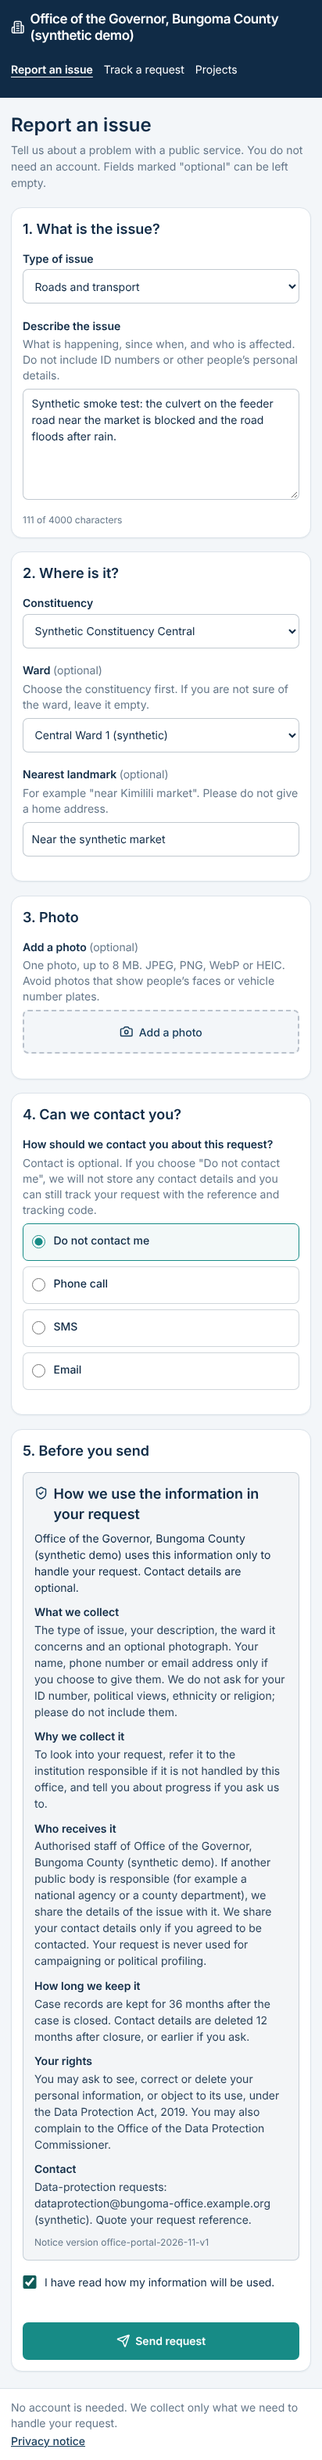
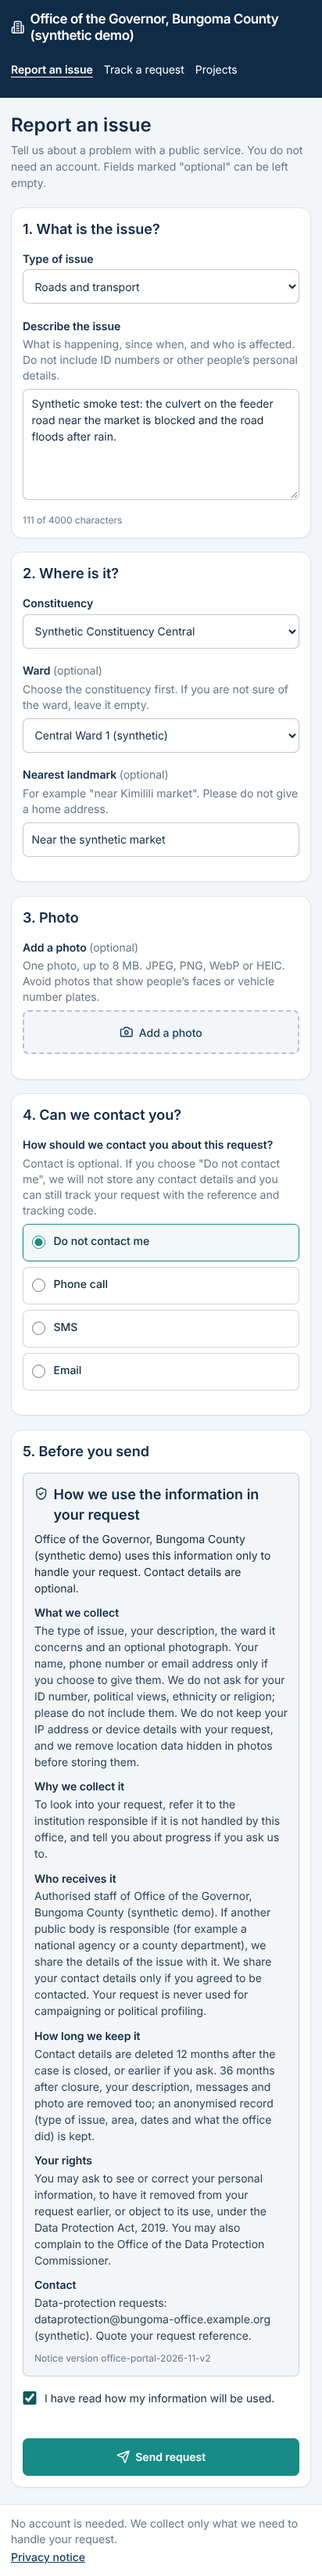
docs(office): status, contract and development notes for the Office review fixes
Mark S23-S27 with the review fixes, add Office acceptance notes, update the
pipeline results, known gaps and the recommended next stage, and document the
contract changes (redaction, confidential cases, closure rules, publication
withdrawal, public evidence files) and the retention job. Refresh the Office
smoke screenshots.

Claude-Session: https://claude.ai/code/session_012U6b6gCKEcZ6Zys4rWqLyD

diff --git a/docs/STATUS.md b/docs/STATUS.md
@@ -10,12 +10,12 @@ Branch `feat/foundation-tally-mvp` (merged to `main`), then `feat/office-governo
 | Typecheck | `pnpm typecheck` | 6/6 packages OK |
 | Lint | `pnpm lint` | 6/6 packages OK |
 | Build | `pnpm build` | shared, db, api, web OK (web includes `/accept-invitation`) |
-| Unit and integration tests | `set -a; . ./.env; set +a; pnpm test` | shared 136, web 113 (tally, public portal, office screens), api 280 tests (27 suites, with RLS and HTTP integration against `ngao360_test`) |
+| Unit and integration tests | `set -a; . ./.env; set +a; pnpm test` | shared 142, web 116 (tally, public portal, office screens), api 309 tests (29 suites, with RLS and HTTP integration against `ngao360_test`) |
 | Governor rehearsal (e2e) | `pnpm test:rehearsal` | 11/11 |
-| Office governor rehearsal (e2e) | `pnpm test:rehearsal:office` | 11/11 |
+| Office governor rehearsal (e2e) | `pnpm test:rehearsal:office` | 12/12 (adds the data-protection redaction step) |
 | Browser smoke | `pnpm smoke:office` (Playwright, running stack) | passes, no browser errors; `docs/screenshots/office-*.png` |
 
-Local services used: PostgreSQL 16 on port 5433 under `/tmp/ngao-pg`, Redis on 6379 (see `docs/DEVELOPMENT.md`). Migrations run up to `20261120000500_office_environment` (the Office build needed no further migration).
+Local services used: PostgreSQL 16 on port 5433 under `/tmp/ngao-pg`, Redis on 6379 (see `docs/DEVELOPMENT.md`). Migrations run up to `20261121000000_office_review_fixes` (case redaction function and guards, `completion_evidence_ids`, approval-authority check). The API now depends on `sharp` 0.34.5 (prebuilt libvips from the npm registry) for server-side image cleaning.
 
 ## Screens (blueprint section 11)
 
@@ -43,11 +43,11 @@ Local services used: PostgreSQL 16 on port 5433 under `/tmp/ngao-pg`, Redis on 6
 | S20 | Verification workspace | Done | Blind independent re-entry or confirm mode, checklist, field comments, pass, return or dispute, supervisor actions (approve, reject, third check). Tally supervisors are routed here. |
 | S21 | Parallel tally | Done | Contest and geography selectors, candidate totals in ballot order, verified-station denominator, mutually exclusive coverage segments, drill-down, station list, immutable snapshots, internal release, CSV, XLSX and PDF exports with the disclaimer. No trend chart over time. |
 | S22 | Discrepancy case | Done | Source A/B comparison, case types, assignment, comments, reasoned resolution (canonical record, exclusion), closure by a different person. |
-| S23 | Correspondence inbox | Done | Register incoming and outgoing items (immutable scans, audited signed links, hash check in the preview), views (mine, overdue, unassigned), filters, assignment with in-app notification, status changes with reasons, replies, confidential items hidden without permission, audit history. |
-| S24 | Citizen portal | Done | `/p/[tenantSlug]`: mobile-first request form with no account, versioned privacy notice (what, why, who, how long), minimal contact (only the chosen channel; none for "do not contact me"), photo shrunk in the browser, honeypot and captcha hook, per-IP rate limits; receipt with public reference and one-time tracking code; tracking by POST showing public updates only; citizen feedback. English strings with a partial Kiswahili table. |
-| S25 | Case workspace | Done | List views and filters, review badges, the 9.2 stage machine with second-person closure, public/internal timeline labels, notes, public updates, contact attempts, referrals to institutions, proposed resolution, reopen, evidence, duplicate hint, audited contact reveal and erasure (re-auth), walk-in recording with the notice read aloud. |
-| S26 | Project register | Done, with gaps | Filters and stage chips (commitment, approved, ongoing, reported complete, verified complete), responsible institution and commitment source on every row, record/edit with a source per money figure. The map is a labelled placeholder grouped by constituency and ward (no coordinates in the list, no map library). |
-| S27 | Project detail | Done | Banner naming the institution legally responsible; commitment, approved, reported complete and verified complete kept separate; milestones, documents, photographs (never proof of completion), finance with sources, history; evidence verification never by the uploader; completion verification refused for photographs alone or for the reporter, with re-auth; per-field public approval with preview. |
+| S23 | Correspondence inbox | Done | Register incoming and outgoing items (immutable scans, audited signed links, hash check in the preview), views (mine, overdue, unassigned), filters, assignment with in-app notification (unassigning returns the item to Received), status changes with reasons, replies, confidential items hidden without permission (raising sensitivity re-checks the assignee), audit history. |
+| S24 | Citizen portal | Done | `/p/[tenantSlug]`: mobile-first request form with no account, versioned privacy notice (`office-portal-2026-11-v2`: what, why, who, how long, no IP or device data kept), minimal contact (only the chosen channel; none for "do not contact me"), photo shrunk in the browser and re-encoded again on the server without metadata (HEIC the browser cannot convert is refused), honeypot and captcha hook, per-IP rate limits, no IP or user agent in the audit stream; receipt with public reference and one-time tracking code; tracking by POST showing public updates only; citizen feedback. English strings with a partial Kiswahili table. |
+| S25 | Case workspace | Done | List views and filters, review badges, the 9.2 stage machine with second-person closure (closure without a resolution from any working stage; "resolved" only after a proposed resolution), public/internal timeline labels, notes and contact attempts scoped by geography, public updates, referrals to institutions, proposed resolution, reopen, evidence, duplicate hint, confidential cases behind `office.cases.confidential`, audited contact reveal and erasure (re-auth), removal of personal details from a closed case (re-auth, permanent), walk-in recording with the notice read aloud and the portal's contact minimisation. |
+| S26 | Project register | Done, with gaps | Filters and stage chips (commitment, approved, ongoing, reported complete, verified complete), responsible institution and commitment source on every row, record/edit with a source per money figure; "approved" and later stages need an approval authority. The map is a labelled placeholder grouped by constituency and ward (no coordinates in the list, no map library). |
+| S27 | Project detail | Done | Banner naming the institution legally responsible; commitment, approved, reported complete and verified complete kept separate; milestones, documents, photographs (never proof of completion), finance with sources, history; evidence verification never by the uploader; completion verification refused for photographs alone or for the reporter, with re-auth, and withdrawn automatically if its cited evidence is later disputed; per-field public approval with preview; editing a published field takes the project off the portal until it is approved again; public photos are served re-encoded without metadata, public documents only after a clean malware scan. |
 | S28 | Report builder | Not started | |
 | S29 | Audit log | Partial | Hash-chained, append-only events with filters, before and after, export. No retention-hold control. |
 | S30 | System settings | Partial | Form-template registry with versioning and maker-checker approval (`/reference/forms`). No module, integration, retention or backup settings. |
@@ -67,7 +67,7 @@ Local services used: PostgreSQL 16 on port 5433 under `/tmp/ngao-pg`, Redis on 6
 | Exports carry the non-official disclaimer and snapshot reference | Done | CSV, XLSX and PDF; `export.spec.ts`, rehearsal. |
 | No copy suggests NGAO360 declares or certifies winners | Done | Forbidden-wording test over web copy; API responses checked in tests. |
 
-## Review findings addressed in this pass
+## Tally review findings (earlier pass)
 
 All 27 reviewer findings were checked against the code and confirmed. Each was fixed. The security and integrity fixes have regression tests in `apps/api/test/auth-hardening.integration.spec.ts`, `apps/api/src/modules/tally/__tests__/tally.regressions.integration.spec.ts`, `apps/api/src/rbac/scope.spec.ts`, the domain specs and `apps/web/src/components/tally/__tests__/review-findings.test.ts`. Summary:
 
@@ -77,6 +77,26 @@ All 27 reviewer findings were checked against the code and confirmed. Each was f
 - **Tally integrity:** open holding cases block a pass and keep VERIFIED records out of totals. Supervisor reject and third-check decisions resolve the disagreement case, and third checks need independent re-entry. Resolving a case releases only records it alone was holding. Verified records cannot be archived. Canonical designation cannot silently demote a verified record and needs re-authentication. Coverage segments are mutually exclusive. Records map to a new registry version by station code, and an approval that would orphan filed forms is refused. Registry and template approval enforce maker-checker.
 - **Workflow:** arithmetic failures on printed figures reach second review held by an ARITHMETIC case, instead of hitting a dead end. A blind-mode Return no longer turns into a false dispute. Supervisors have a queue and are routed to the verification workspace.
 - **Concurrency:** supervisor actions, discrepancy status changes and canonical designation are conditional writes. Save and submit-for-review lock the submission row. A cross-stage comparison failure no longer returns an error for a verification that was already recorded.
+
+## Office review findings addressed in this pass
+
+The 19 reviewer findings were checked against the code. All were confirmed; two pairs were duplicates (published-project edits; completion verification after a dispute), so 17 distinct defects were fixed. Regression tests: `apps/api/test/office-review-fixes.integration.spec.ts` (22 tests through the HTTP stack and the database), `apps/api/src/modules/office/__tests__/office-review-fixes.spec.ts`, `packages/shared/src/office/review-fixes.test.ts`, the updated Office suites and the Office rehearsal.
+
+- **Privacy:** portal submissions, portal photos and citizen feedback keep no IP address or user agent in the audit stream, and record history shows request metadata only to `audit.view` holders. Portal photos are re-encoded on the server (EXIF GPS, device and owner metadata removed, neutral file name); HEIC is refused. Public project photos are served as a cleaned copy with a neutral name; public PDFs need a clean malware scan and download as attachments. Walk-in contact data follows the portal rule (chosen channel only, only with consent). Case redaction (`POST /office/cases/:id/redact`, re-auth) and an in-process retention job (contact erasure after `retentionUntil`, case redaction after `caseRetentionMonths`) make the notice's retention and deletion promises true; the notice wording was revised (v2).
+- **Access:** confidential and highly restricted cases need the new high-risk permission `office.cases.confidential` (Office administrator only) and answer 404 otherwise, in lists, duplicate hints, files, history and every record route. Internal notes and contact attempts are checked against the case geography, for reading and writing. Office notifications disappear while the tenant has the module off.
+- **Integrity:** "resolved" closures need a proposed resolution, and other closure reasons work from every working stage. APPROVED and later need an approval authority (API and DB check). Edits to published fields withdraw publication. A disputed citation withdraws a verified completion; evidence and completion verification serialise on the project row; milestone verification is a conditional write. Case event writers lock the case row, so no public update follows a close. Identical uploads at the same moment resolve to one stored file instead of a 409. Correspondence unassignment returns to Received; raising sensitivity re-checks the assignee. Appointment times compare as instants.
+
+### Office acceptance notes (stage 5)
+
+| Requirement (blueprint 9, 15.2) | Status | Evidence |
+| --- | --- | --- |
+| Office hideable per tenant | Done | `@RequireModule('office')`, portal 404 with the module off, sidebar hidden, notifications hidden; `office-foundation`, `office-review-fixes` suites. |
+| Office data separate from tally/campaign | Done | Own tables and `office.*` permissions; roles unit-tested; rehearsal step 1. |
+| Portal without an account, clear notice, minimal data, abuse protection | Done, with gaps | Versioned notice, honeypot, captcha hook (no provider bound), per-IP limits (in memory), no IP or device data stored, photo metadata removed. |
+| Public tracking without internal notes or others' data | Done | `office-public` suite, rehearsal tracking steps. |
+| Right to deletion and storage limitation | Done, with gaps | Contact erasure, case redaction, retention job. The blob of a redacted portal photo stays in storage (unlinked, unreachable through the API); staff-written notes are not redacted. |
+| Projects: responsible body named; commitment, approved and verified completion distinct; a photograph is never proof | Done | Banner and labels, approval-authority rule, completion evidence rule and withdrawal on dispute; `office-projects`, `office-review-fixes`, rehearsal. |
+| Publish approved fields only | Done | Per-field approval; any edit to a published field withdraws publication until re-approved. |
 
 ## NGAO360 Office (stage 5)
 
@@ -89,7 +109,7 @@ All 27 reviewer findings were checked against the code and confirmed. Each was f
 
 - **Module activation:** `tenant_modules` + `/workspace/modules` (S30 module settings API, no screen yet), `modules` in `/auth/me`, `@RequireModule` + `ModuleGuard` (403 `MODULE_DISABLED`), Office nav group hidden unless the module is on and the user holds an office permission. Office is off by default.
 - **Schema:** migration `20261120000500_office_environment` adds correspondence (+ attachments), appointments, meetings (+ action items, decision log), citizen cases with separate contact table, case timeline (public/internal), referrals, institution registry, projects, milestones and evidence. RLS on every table; no deletes; append-only timeline, decisions and attachments; immutable case submissions and evidence facts; checks for verified completion (second person), evidence verification (not the uploader), publication and public contract amounts.
-- **Access:** 21 `office.*` permissions and five roles (Office administrator, Case officer, Correspondence clerk, Projects officer, Public-information editor). Office roles hold no campaign or tally permissions; tally roles hold no office write permissions (unit-tested).
+- **Access:** 22 `office.*` permissions (including `office.cases.confidential`) and five roles (Office administrator, Case officer, Correspondence clerk, Projects officer, Public-information editor). Office roles hold no campaign or tally permissions; tally roles hold no office write permissions (unit-tested).
 - **Contracts:** shared zod DTOs in `packages/shared/src/office/`; endpoints, permissions, audit actions and transitions in `docs/API_CONTRACT.md` §8–13.
 - **API skeleton:** `apps/api/src/modules/office/{correspondence,appointments,cases,projects,public}` with empty controllers/services, geo resolvers `officeCase` / `officeProject`, location and scope helpers, public reference and tracking-code helpers, and the public area's own rate limiter, honeypot/captcha hook, tenant resolution and `GET /public/:tenantSlug/portal`.
 - **Web skeleton:** `/office/correspondence[/id]`, `/office/appointments`, `/office/cases[/id]`, `/office/projects[/id]` behind the module gate; public route group `/p/[tenantSlug]` (home, request, track, projects, project) outside the authenticated shell.
@@ -103,13 +123,13 @@ All 27 reviewer findings were checked against the code and confirmed. Each was f
 - **Accepted arithmetic:** an arithmetic case resolved as "figures as printed" allows a later pass. The acceptance is not tied to the exact figures, so a recapture after a return should reopen the check.
 - **Queue filters:** the `awaiting_me` and `awaiting_supervisor` filters use the current value rows. Separation of duties is enforced on every action from the full audit history, so these lists are only an approximation.
 - **Security review items still open:** passkeys, account recovery, rate limiting by account across instances (Redis store), a malware scan for uploads, real OCR, an S3 object lock for originals in production, a load test and a backup and restore drill (roadmap stage 6).
-- **Office gaps:** the public-portal limiter keeps counters in memory per API instance (move to Redis with the auth limiter); no captcha verifier or widget is bound (configuring a provider fails closed); portal acknowledgements are queued but no notification processor sends them; contact-retention erasure is manual (no scheduled job yet); review-date SLAs are fixed in code; the privacy notice is English only; no real project map; correspondence, appointment and project pickers have no Office assignee endpoint (cases do); geographic units are tied to an election cycle, so an office-only tenant carries a reference-only cycle; there is no workspace settings screen for module activation yet (API only). Details in `docs/CHANGE_REQUESTS.md`.
+- **Office gaps:** the public-portal limiter keeps counters in memory per API instance (move to Redis with the auth limiter); no captcha verifier or widget is bound (configuring a provider fails closed); portal acknowledgements are queued but no notification processor sends them; the retention job runs on an in-process timer (move it to a BullMQ repeatable job with a run record); there is no malware scanner, so project PDFs cannot be published until one records `CLEAN`; redaction unlinks a portal photo but does not delete its blob (immutable content-addressed storage, S3 object lock in production) and does not touch staff-written notes or public updates; HEIC photos are refused at the portal rather than converted; publication withdrawal on edit is all-or-nothing (no pending-change review or snapshot diff, and the reason shows only in history); the approval-authority DB check is `NOT VALID` for rows created before the migration; review-date SLAs are fixed in code; the privacy notice is English only; no real project map; correspondence, appointment and project pickers have no Office assignee endpoint (cases do); geographic units are tied to an election cycle, so an office-only tenant carries a reference-only cycle; there is no workspace settings screen for module activation yet (API only). Details in `docs/CHANGE_REQUESTS.md`.
 - **Not built yet:** S02, S03, S05, S08–S11, S13–S17 and S28. 2022 historical data import is designed (`docs/DATA_SOURCES_2022.md`) but not wired in.
 
 ## Recommended next workflow
 
-1. **Stage 2, Command and organisation (3–4 weeks):** S05 organisation tree and teams, S08 task board, S09 events, an S04 dashboard with activity and geo panels, the notification centre (in-app now, then e-mail and SMS, which unblocks invitation delivery) and standard reports (section 10.1). Reuse the existing RBAC scopes, audit stream and module gating.
-2. **Stage 3, Field and election operations (3–4 weeks):** S13 agent profiles, S14 deployment planner, S15 readiness dashboard, S11 and S17 field and incident intake on the PWA with offline queueing (section 13.4), and S16 War Room fed by the tally state. Move station-scoped grants and dashboards to station code first, so registry amendments stay safe.
-3. **Office hardening before the pilot:** a privacy review of the public pages with the office's data-protection contact, a Kiswahili notice reviewed by a fluent speaker, the Redis-backed public limiter, a captcha provider, the acknowledgement notification processor and the scheduled contact-retention job.
+1. **Office hardening before the pilot (recommended next stage, 1–2 weeks, because the pilot customer is a Governor's office):** a malware-scanning worker for stored files (unblocks public documents), storage-level erasure of redacted portal photos, the retention job as a durable BullMQ repeatable job, a privacy review of the public pages and notice v2 with the office's data-protection contact, a Kiswahili notice reviewed by a fluent speaker, the Redis-backed public limiter, a captcha provider, the acknowledgement notification processor, a pending-change review screen for published projects and the S30 module/retention settings screen.
+2. **Stage 2, Command and organisation (3–4 weeks):** S05 organisation tree and teams, S08 task board, S09 events, an S04 dashboard with activity and geo panels, the notification centre (in-app now, then e-mail and SMS, which unblocks invitation delivery) and standard reports (section 10.1). Reuse the existing RBAC scopes, audit stream and module gating.
+3. **Stage 3, Field and election operations (3–4 weeks):** S13 agent profiles, S14 deployment planner, S15 readiness dashboard, S11 and S17 field and incident intake on the PWA with offline queueing (section 13.4), and S16 War Room fed by the tally state. Move station-scoped grants and dashboards to station code first, so registry amendments stay safe.
 
 Before any pilot use: close the invitation-delivery gap, add the cross-stage retry job, and run a security review (stage 6 items above).

diff --git a/docs/API_CONTRACT.md b/docs/API_CONTRACT.md
@@ -319,13 +319,16 @@ These rules apply to every Office endpoint. Shared DTOs are in `packages/shared/
 | Separation from campaign data | Office data lives only in the Office tables and behind `office.*` permissions (blueprint 15.2). Never join Office records to tally, campaign or user-profile data for analytics, and never expose requester data to campaign roles. |
 | Tenancy | Use `prisma.tenantTx()`. Before linking any id from a request (assignee, institution, case, correspondence, unit, file), load it inside the same transaction; RLS makes other tenants' rows invisible, so a missing row is 404/400. FK checks alone do not stop cross-tenant ids. |
 | Geography | Cases and projects store the lowest unit given (`geographicUnitId`: ward, constituency or county; polling centres are refused) plus denormalised `countyId`, `constituencyId`, `wardId`. Use `resolveOfficeLocation(tx, unitId)` to fill them, `officeScopeWhere(scope)` to filter lists and the geo kinds `officeCase` / `officeProject` on record routes (`@RequirePermission('office.cases.view', { geo: { kind: 'officeCase', from: 'params', key: 'id' } })`). A record without a location is visible only to organisation-wide grants. Correspondence, appointments and meetings are not geographic: any grant of the permission is enough. |
-| Concurrency | Mutable records carry `version`. Mutations take `expectedVersion` and update with `where: { id, version: expectedVersion }`, incrementing `version`; a stale value returns 409 `CONFLICT`. |
+| Concurrency | Mutable records carry `version`. Mutations take `expectedVersion` and update with `where: { id, version: expectedVersion }`, incrementing `version`; a stale value returns 409 `CONFLICT`. Writers that check a status and then insert (case events, evidence, referral updates, milestone and evidence verification) take a row lock (`SELECT … FOR UPDATE`) or write conditionally. Identical files uploaded at the same moment resolve to one `stored_files` row (`INSERT … ON CONFLICT DO NOTHING`). |
 | Transitions | Use the shared `canTransition*()` helpers; an illegal move returns 409 `INVALID_TRANSITION`. Every transition writes the named audit action with before/after status and reason. |
-| History | `case_events`, `meeting_decisions` and `correspondence_attachments` are append-only (DB trigger, `IMMUTABLE_RECORD`). No Office row is ever deleted (DB trigger). Project evidence may change only its verification and publication fields. Case submission content and references are immutable. |
+| History | `case_events` (except a redaction through `ngao_redact_citizen_case`), `meeting_decisions` and `correspondence_attachments` are append-only (DB trigger, `IMMUTABLE_RECORD`). No Office row is ever deleted (DB trigger). Project evidence may change only its verification and publication fields. Case submission content and references are immutable. |
 | Files | `StorageService.storeImmutable(purpose: 'CORRESPONDENCE' \| 'CASE_EVIDENCE' \| 'PROJECT_EVIDENCE')` (images and PDFs only, sniffed, ≤ 25 MB). Downloads use `StorageService.signedUrl()` and every issuance is audited with `FILE_SOURCE_ACCESSED` (`entityType` = the Office record). Public-portal photos are stored with `uploadedById = config.portalServiceUserId`. |
 | References | Internal sequential references via `nextReference(tx, tenantId, OFFICE_REFERENCE_PREFIX.*)`: `COR-IN-YYYY-NNNNNN`, `COR-OUT-…`, `APT-…`, `CASE-…`, `PRJ-…`. Citizen cases also get a random `publicReference` (`BG-7K3F-9Q2X`, prefix from the tenant slug initials) and an 8-character tracking code shown once; only its SHA-256 is stored (`allocatePublicReference`, `trackingCodeMatches`). |
 | allowedActions | Detail DTOs return `allowedActions` computed from the caller's permissions, the record state and separation-of-duties rules, so the UI never offers an action the API will refuse. |
 | Personal data | Requester contact is only in `citizen_case_contacts` and only returned by `GET /office/cases/:id/contact`. No list or detail DTO, export, notification or log line contains contact fields. |
+| Anonymous requesters | Public-portal audit events (`omitRequestMetadata`) and the portal photo's `FILE_STORED` event keep no source IP or user agent. Record history endpoints return `sourceIp`/`userAgent` only to holders of `audit.view`. Portal photos are re-encoded on the server before storage (metadata such as EXIF GPS removed, neutral file name `portal-photo.<ext>`); HEIC, which the server cannot decode, is refused (400). |
+| Staff-recorded contact | `minimalContact()`: phone or email only for the chosen channel and only with consent (400 otherwise); a name alone may be kept with preference NONE. Same rule for `PUT …/contact`. |
+| Notifications | `module: 'office'` notifications are hidden (list, read, read-all) while the tenant has the Office module off. |
 | Language | Never present the office as controlling a project another body is legally responsible for. Use the labels in `PROJECT_STATUS_LABELS` / `PROJECT_STAGE_KIND_LABELS`; never call a `COMPLETED` project "complete" without "reported" / "awaiting verification". |
 
 ## 9. Correspondence (`apps/api/src/modules/office/correspondence`) — S23
@@ -341,7 +344,7 @@ levels needs it too.
 | GET | `/office/correspondence/:id` | `office.correspondence.view` | `IdParam` | `CorrespondenceDetail` | Includes attachments, replies and linked case ref (case title not included). |
 | POST | `/office/correspondence` | `office.correspondence.create` | `CreateCorrespondence` | `CorrespondenceDetail` (201) | Reference `COR-IN-…` or `COR-OUT-…`. Status: INCOMING → `RECEIVED` (or `ASSIGNED` when `assignedToId` given); OUTGOING → `DRAFT`. `inReplyToId` must be an item of the opposite direction. `linkedCaseId` is checked for existence only. Audit: `CORRESPONDENCE_CREATED`. |
 | PATCH | `/office/correspondence/:id` | `office.correspondence.edit` | `UpdateCorrespondence` | `CorrespondenceDetail` | Not allowed in `ARCHIVED` (409 `IMMUTABLE_RECORD`). Lowering sensitivity from CONFIDENTIAL+ needs `.confidential` and a `reason`. Audit: `CORRESPONDENCE_UPDATED` (changed fields only). |
-| POST | `/office/correspondence/:id/assign` | `office.correspondence.edit` | `AssignCorrespondence` | `CorrespondenceDetail` | Assignee must be ACTIVE and hold `office.correspondence.view` (and `.confidential` for restricted items) — 400 otherwise. `RECEIVED` → `ASSIGNED` when assigning; unassigning keeps status. Audit: `CORRESPONDENCE_ASSIGNED`. Sends an in-app notification (`module: 'office'`, `type: 'correspondence.assigned'`, link `/office/correspondence/:id`). |
+| POST | `/office/correspondence/:id/assign` | `office.correspondence.edit` | `AssignCorrespondence` | `CorrespondenceDetail` | Assignee must be ACTIVE and hold `office.correspondence.view` (and `.confidential` for restricted items) — 400 otherwise. `RECEIVED` → `ASSIGNED` when assigning; unassigning returns `ASSIGNED` to `RECEIVED` and is refused (400) while `IN_PROGRESS`. Raising the sensitivity to a restricted level re-checks the current assignee (400). Audit: `CORRESPONDENCE_ASSIGNED`. Sends an in-app notification (`module: 'office'`, `type: 'correspondence.assigned'`, link `/office/correspondence/:id`). |
 | POST | `/office/correspondence/:id/transition` | `office.correspondence.edit` | `CorrespondenceTransition` | `CorrespondenceDetail` | `CORRESPONDENCE_STATUS_TRANSITIONS`: `DRAFT→SENT\|ARCHIVED`, `RECEIVED→ASSIGNED\|FILED`, `ASSIGNED→IN_PROGRESS\|RESPONDED\|FILED`, `IN_PROGRESS→RESPONDED\|FILED`, `RESPONDED→FILED`, `SENT→FILED`, `FILED→ARCHIVED`. `SENT` sets `sentAt` (default now). `reason` required for `FILED` from RECEIVED/ASSIGNED/IN_PROGRESS (no response) and for `ARCHIVED`. Audit: `CORRESPONDENCE_STATUS_CHANGED`. |
 | POST | `/office/correspondence/:id/attachments` | `office.correspondence.edit` | multipart `file` + `metadata` (`AddCorrespondenceAttachment` JSON) | `CorrespondenceAttachment` (201) | `storeImmutable(purpose: 'CORRESPONDENCE')`. A duplicate hash reuses the stored file; attaching the same file twice to one item returns 409. Not allowed when ARCHIVED. Audit: `FILE_STORED` (new files) + `CORRESPONDENCE_ATTACHMENT_ADDED`. |
 | GET | `/office/correspondence/:id/attachments/:attachmentId/url` | `office.correspondence.view` | params | `SignedUrlResponse` | Inline view; `?download=1` for download. Audit: `FILE_SOURCE_ACCESSED` every call. |
@@ -376,7 +379,7 @@ Web: `/office/appointments` (diary with appointments and meetings tabs).
 | GET | `/office/appointments/:id` | `office.appointments.view` | `IdParam` | `AppointmentDetail` | Contact fields are visible to holders of `office.appointments.view` (the requester gave them for this purpose). |
 | POST | `/office/appointments` | `office.appointments.manage` | `CreateAppointment` | `AppointmentDetail` (201) | Reference `APT-…`, status `REQUESTED`. `privacyNoticeVersion` must equal `CURRENT_APPOINTMENT_PRIVACY_NOTICE_VERSION` (400 otherwise): the clerk reads or shows `appointmentPrivacyNotice()` to the requester. Audit: `APPOINTMENT_CREATED`. Audit snapshots never contain contact values: record `hasPhone` / `hasEmail` booleans instead (applies to every Office audit event). |
 | PATCH | `/office/appointments/:id` | `office.appointments.manage` | `UpdateAppointment` | `AppointmentDetail` | Not in DECLINED/CANCELLED/COMPLETED except follow-up fields. Audit: `APPOINTMENT_UPDATED`. |
-| POST | `/office/appointments/:id/transition` | `office.appointments.manage` | `AppointmentTransition` | `AppointmentDetail` | `APPOINTMENT_STATUS_TRANSITIONS`: `REQUESTED→CONFIRMED\|DECLINED\|CANCELLED`, `CONFIRMED→RESCHEDULED\|CANCELLED\|COMPLETED\|NO_SHOW`, `RESCHEDULED→CONFIRMED\|CANCELLED\|COMPLETED\|NO_SHOW`, `NO_SHOW→RESCHEDULED`. CONFIRMED/RESCHEDULED need `confirmedStart`; COMPLETED needs `outcome` (sets `outcomeRecordedAt`; optional follow-up fields); DECLINED/CANCELLED/NO_SHOW need `reason`. Audit: `APPOINTMENT_STATUS_CHANGED`. |
+| POST | `/office/appointments/:id/transition` | `office.appointments.manage` | `AppointmentTransition` | `AppointmentDetail` | `APPOINTMENT_STATUS_TRANSITIONS`: `REQUESTED→CONFIRMED\|DECLINED\|CANCELLED`, `CONFIRMED→RESCHEDULED\|CANCELLED\|COMPLETED\|NO_SHOW`, `RESCHEDULED→CONFIRMED\|CANCELLED\|COMPLETED\|NO_SHOW`, `NO_SHOW→RESCHEDULED`. CONFIRMED/RESCHEDULED need `confirmedStart` (`confirmedEnd`, and on create/update `preferredEnd`, must be later, compared as instants whatever the offsets); COMPLETED needs `outcome` (sets `outcomeRecordedAt`; optional follow-up fields); DECLINED/CANCELLED/NO_SHOW need `reason`. Audit: `APPOINTMENT_STATUS_CHANGED`. |
 
 ### 10.2 Meetings (lean)
 
@@ -406,8 +409,18 @@ Web: `/office/cases`, `/office/cases/[id]`. Record routes use the geo target
 | TRIAGE, ASSIGNED, IN_PROGRESS | REFERRED | `referrals` (POST) | `office.cases.referral` | Creates a `CaseReferral`. |
 | ASSIGNED, IN_PROGRESS, REFERRED | RESOLUTION_PROPOSED | `propose-resolution` | `office.cases.manage` | Records `resolutionSummary` (requester-visible) and `resolutionProposedById/At`. |
 | RESOLUTION_PROPOSED | CITIZEN_FEEDBACK | `transition` | `office.cases.manage` | Asks the requester to confirm (public update). |
-| RESOLUTION_PROPOSED, CITIZEN_FEEDBACK | CLOSED | `close` | `office.cases.close` | With `caseCloseRequiresSecondPerson` (default true) the closer must differ from `resolutionProposedById` (403 `SEPARATION_OF_DUTIES`). |
-| CLOSED | REOPENED | `reopen` | `office.cases.close` | A new event; the earlier closure fields are kept in the timeline (`CLOSED` event) and cleared on the row. |
+| ASSIGNED, IN_PROGRESS, REFERRED, REOPENED | CLOSED | `close` | `office.cases.close` | Closure without a resolution (referred out, withdrawn, duplicate, no response, out of jurisdiction, abusive). `RESOLVED` is refused here (400): `caseClosureAllowed()`. |
+| RESOLUTION_PROPOSED, CITIZEN_FEEDBACK | CLOSED | `close` | `office.cases.close` | Any reason, including `RESOLVED`. With `caseCloseRequiresSecondPerson` (default true) the closer must differ from `resolutionProposedById` (403 `SEPARATION_OF_DUTIES`). |
+| CLOSED | REOPENED | `reopen` | `office.cases.close` | A new event; the earlier closure fields are kept in the timeline (`CLOSED` event) and cleared on the row. Not after a redaction (409). |
+
+**Sensitivity.** `CONFIDENTIAL` and `HIGHLY_RESTRICTED` cases need `office.cases.confidential`
+covering the case: without it every case route answers 404 and lists, duplicate hints and the
+portal's duplicate note leave them out. Recording a restricted case, or raising or lowering a case
+to or from a restricted level, needs the permission; the assignee of a restricted case must hold
+it too (400 otherwise).
+
+**Internal notes.** `office.cases.internal_notes` is checked against the case geography, for
+reading (`NOTE`, `CONTACT_ATTEMPT` in `events`) and for writing every internal type.
 
 Every transition appends a `CaseEvent` (`STATUS_CHANGED`, `ASSIGNED`, `REFERRED`,
 `RESOLUTION_PROPOSED`, `CLOSED`, `REOPENED`) with `fromStatus`/`toStatus`, plus a `PUBLIC_UPDATE`
@@ -421,12 +434,13 @@ when `publicMessage` is given, and an audit event in the same transaction.
 | PATCH | `/office/cases/:id` | `office.cases.manage` **(geo)** | `UpdateCase` | `CaseDetail` | Category, priority, title, location, sensitivity, `nextReviewDate`, `duplicateOfId`. Description is immutable (DB guard). Not in CLOSED. Audit: `CASE_UPDATED`. |
 | POST | `/office/cases/:id/assign` | `office.cases.manage` **(geo)** | `AssignCase` | `CaseDetail` | Assignee must be ACTIVE and hold `office.cases.manage` covering the case location (400 otherwise). From TRIAGE/REOPENED moves to ASSIGNED; otherwise only changes the assignee. Event `ASSIGNED` (INTERNAL) + public "assigned to an officer" (no name). Audit: `CASE_ASSIGNED`. Notification to the assignee (`type: 'case.assigned'`). |
 | POST | `/office/cases/:id/transition` | `office.cases.manage` **(geo)** | `CaseTransition` | `CaseDetail` | Targets TRIAGE, ASSIGNED, IN_PROGRESS, CITIZEN_FEEDBACK (table above). Audit: `CASE_STATUS_CHANGED`. |
-| POST | `/office/cases/:id/events` | `office.cases.manage` **(geo)**; `NOTE` also needs `office.cases.internal_notes` | `AddCaseEvent` | `CaseEvent` (201) | Visibility derived from type (NOTE/CONTACT_ATTEMPT → INTERNAL, PUBLIC_UPDATE → PUBLIC). Not in CLOSED except NOTE. Audit: `CASE_EVENT_ADDED` (`after` holds type and visibility; the body of a NOTE is never copied into the audit event). |
+| POST | `/office/cases/:id/events` | `office.cases.manage` **(geo)**; `NOTE` and `CONTACT_ATTEMPT` also need `office.cases.internal_notes` **(geo)** | `AddCaseEvent` | `CaseEvent` (201) | Visibility derived from type (NOTE/CONTACT_ATTEMPT → INTERNAL, PUBLIC_UPDATE → PUBLIC). Not in CLOSED except NOTE (the case row is locked, so an update never lands after a concurrent close). Audit: `CASE_EVENT_ADDED` (`after` holds type and visibility; the body of a NOTE is never copied into the audit event). |
 | POST | `/office/cases/:id/evidence` | `office.cases.manage` **(geo)** | multipart `file` + `metadata` (`AddCaseEvidence`) | `CaseEvent` (201) | `storeImmutable(purpose: 'CASE_EVIDENCE')`; event `EVIDENCE_ADDED`. PUBLIC evidence is listed (description only, no file) on the tracking page. Audit: `FILE_STORED` + `CASE_EVIDENCE_ADDED`. |
 | GET | `/office/cases/:id/files/:fileId/url` | `office.cases.view` **(geo)** | params | `SignedUrlResponse` | Only files linked to the case's events. Audit: `FILE_SOURCE_ACCESSED`. |
 | GET | `/office/cases/:id/contact` | `office.cases.contact.view` **(geo)** | `IdParam` | `CaseContact` (404 when none) | Every read is audited: `CASE_CONTACT_VIEWED` (no contact values in the event). |
 | PUT | `/office/cases/:id/contact` | `office.cases.contact.view` + `office.cases.manage` **(geo)** | `UpdateCaseContact` | `CaseContact` | Correction at the requester's request. Audit: `CASE_CONTACT_UPDATED` (field names only). |
 | POST | `/office/cases/:id/contact/erase` | `office.cases.close` **(geo)** **(reauth)** | `EraseCaseContact` | `CaseContact` | Data-subject erasure or retention: nulls name/phone/email, sets `erasedAt`; the case body stays. Audit: `CASE_CONTACT_ERASED`. |
+| POST | `/office/cases/:id/redact` | `office.cases.close` **(geo)** **(reauth)** | `RedactCase` | `CaseDetail` | CLOSED cases only (400 otherwise; 409 when already redacted). Through the DB function `ngao_redact_citizen_case`: description → `[Personal content removed]`, location text cleared, title → category label, body and photo link of every REQUESTER event cleared, `redactedAt` set; contact erased. Permanent: no reopen afterwards. Audit: `CASE_REDACTED` (`trigger: REQUEST`). The retention job does the same `caseRetentionMonths` after closure (`trigger: RETENTION`, actor SYSTEM) and erases contacts after `retentionUntil`. |
 | GET | `/office/cases/:id/referrals` | `office.cases.view` **(geo)** | `IdParam` | `CaseReferral[]` | |
 | POST | `/office/cases/:id/referrals` | `office.cases.referral` **(geo)** | `CreateCaseReferral` | `CaseDetail` | Institution must be active. Moves TRIAGE/ASSIGNED/IN_PROGRESS → REFERRED (already REFERRED: adds another referral). `shareRequesterContact` true is refused (400) without `consentToContact`. Events `REFERRED` (INTERNAL, note) + `PUBLIC_UPDATE` ("Referred to <institution name>"). Audit: `CASE_REFERRED`. |
 | PATCH | `/office/cases/:id/referrals/:referralId` | `office.cases.referral` **(geo)** | `CaseReferralParam` + `UpdateCaseReferral` | `CaseReferral` | Status `SENT→ACKNOWLEDGED\|RESPONDED\|NO_RESPONSE\|CLOSED`, `ACKNOWLEDGED→RESPONDED\|NO_RESPONSE\|CLOSED`, `RESPONDED\|NO_RESPONSE→CLOSED`. Event `REFERRAL_UPDATED` (INTERNAL). Audit: `CASE_REFERRAL_UPDATED`. |
@@ -454,7 +468,20 @@ and `commitmentSource`; screens and the public view say the office *tracks* the 
 institution responsible. `VERIFIED_COMPLETED` needs `completionEvidenceSufficient()` on the cited
 evidence (at least one VERIFIED inspection report, completion certificate or handover document — a
 photograph alone never suffices), a verifier who is not the completion reporter (DB check
-`projects_verified_completion_check`) and not the uploader of any cited evidence.
+`projects_verified_completion_check`) and not the uploader of any cited evidence. The cited ids are
+stored (`completionEvidenceIds`); if one of them later leaves VERIFIED and the rest no longer suffice,
+the project returns to COMPLETED and the withdrawal is audited (`PROJECT_STATUS_CHANGED` with
+`verificationWithdrawn`). Evidence verification and completion verification take the project row
+lock, so they never both commit on stale reads.
+
+**Approval.** APPROVED and every later stage need `approvalAuthority` (400 on create, transition or
+update; DB check `projects_approval_authority_check`), so a pledge is never shown as an approved project.
+
+**Publication approval covers content.** On a published project, a change to an always-public field
+or to a field of an approved public section (`publicFacingProjectChanges()`, including a new or
+renamed milestone when milestones are public and a new delay reason when the schedule is public)
+sets `isPublic` false and audits `PROJECT_PUBLICATION_CHANGED` with `withdrawnBecauseChanged`. A
+holder of `office.projects.publish` must approve it again.
 
 | Method | Path | Permission | Request | Response | Notes / Audit |
 | --- | --- | --- | --- | --- | --- |
@@ -533,7 +560,7 @@ complete — awaiting independent verification"; otherwise "Not complete".
 | --- | --- | --- | --- | --- | --- |
 | GET | `/public/:tenantSlug/projects` | public (`read`) | `PublicProjectQuery` | `Paginated<PublicProjectSummary>` | Filters: category, stage kind, unit (ward/constituency), `q` on name. |
 | GET | `/public/:tenantSlug/projects/:id` | public (`read`) | `PublicProjectParam` | `PublicProjectDetail` | 404 when not public. `contractAmount` only when approved and `contractAmountIsPublic`. `evidence` lists only evidence with `isPublic` (always VERIFIED). No staff names (`projectOwner` is the published owner name). |
-| GET | `/public/:tenantSlug/projects/:id/evidence/:evidenceId/file` | public (`read`) | `PublicEvidenceParam` | 302 to a short-lived signed URL | Only `isPublic` evidence of a public project. Not audited (public record). |
+| GET | `/public/:tenantSlug/projects/:id/evidence/:evidenceId/file` | public (`read`) | `PublicEvidenceParam` | JPEG/PNG/WebP: 200 with a copy re-encoded without metadata, `inline; filename="evidence-<id>.<ext>"`. PDF: 302 to a short-lived signed URL, `attachment` with a neutral name, only when `malwareScanStatus = CLEAN`. | Only `isPublic` evidence of a public project. HEIC and unscanned documents are never served (404; publication refuses them). `X-Content-Type-Options: nosniff`. Not audited (public record). |
 
 ---
 

diff --git a/docs/DEVELOPMENT.md b/docs/DEVELOPMENT.md
@@ -80,7 +80,10 @@ The Office module (`apps/api/src/modules/office`, web `/office/*` and `/p/[tenan
 - **Public portal.** No account. Per-IP limits come from `PUBLIC_RATE_LIMIT_WINDOW_SECONDS` (600), `PUBLIC_SUBMIT_RATE_LIMIT_MAX` (5), `PUBLIC_TRACK_RATE_LIMIT_MAX` (30) and `PUBLIC_READ_RATE_LIMIT_MAX` (600). The counters live in memory per API process, so restarting the API resets them; move them to Redis before running more than one instance. Every public POST needs the `x-ngao-client: web` header and passes the honeypot check. When `captchaProvider` is anything but `none`, bind a verifier to `CAPTCHA_VERIFIER` in the API and register a widget with `registerCaptchaWidget()` in `apps/web/src/components/public/captcha.tsx`; until then public writes fail closed.
 - **Separation from campaign data.** Office roles hold no `tally.*` permissions; Office tables are never joined to tally or campaign data (blueprint 15.2). The dashboard shows Office staff an Office overview (office KPIs scoped by their own permissions) when the organisation has no NGAO TALLY or the user lacks `dashboard.view`.
 - **Form support without the portal.** `GET /office/geography`, `GET /office/privacy-notice` and `GET /office/cases/:id/assignable-officers` (API contract §9a) feed the Office forms, so walk-in recording works with the portal off.
-- **Not built yet.** Notifications for portal acknowledgements are queued (`office.case.acknowledgement` on `NOTIFICATION_QUEUE`) but no processor sends them. Contact details get a `retentionUntil` date when a case closes, but no scheduled job erases them yet.
+- **Retention job.** `CaseRetentionService` runs in the API process every `OFFICE_RETENTION_INTERVAL_MINUTES` (default 360; `0` turns it off, as the test fixtures do). It erases contact details once `retentionUntil` (closure + `contactRetentionMonths`) has passed and redacts closed cases `caseRetentionMonths` after closure through the database function `ngao_redact_citizen_case` (the only path past the case immutability guards). Each run is idempotent, so several API instances may run it.
+- **Images.** The API uses `sharp` (prebuilt libvips from the npm registry) to re-encode portal photos and public project photos without metadata. HEIC cannot be decoded on the server and is refused at the portal.
+- **Public documents.** Project PDFs reach the public only once their `malwareScanStatus` is `CLEAN`. There is no scanner yet: a scanner (or, in rehearsals, the owner database client) must record `CLEAN`.
+- **Not built yet.** Notifications for portal acknowledgements are queued (`office.case.acknowledgement` on `NOTIFICATION_QUEUE`) but no processor sends them.
 
 ### OCR
 

diff --git a/docs/CHANGE_REQUESTS.md b/docs/CHANGE_REQUESTS.md
@@ -375,8 +375,8 @@ request or response shape.
    `apps/api/src/modules/office/cases/case-support.ts`; move it to `packages/shared/src/office/enums.ts`
    next to `CitizenFeedbackResponseSchema` so the tracking page can reuse it.
 6. **Known gaps (unchanged by this work).** The public rate limiter keeps counters in memory per API
-   instance (move to Redis before scaling out); no captcha verifier is bound; contact retention is
-   recorded (`retentionUntil`) but no scheduled job erases expired contacts yet.
+   instance (move to Redis before scaling out); no captcha verifier is bound. (Contact retention:
+   done in the review-fix pass, see below.)
 
 ## Office: correspondence, appointments and projects UI (from the office web agent)
 
@@ -451,7 +451,22 @@ Applied in the integration pass on `feat/office-governor`:
 
 Still open (unchanged): Kiswahili privacy notice (cases item 4), captcha widget and verifier (cases
 item 5, Office API item 6), public bundle size (cases item 6), acknowledgement processor (Office API
-item 2), review-date SLA as a tenant setting (Office API item 3), Redis-backed public limiter and
-contact-retention job (Office API item 6), assignee endpoint for correspondence, appointments and
+item 2), review-date SLA as a tenant setting (Office API item 3), Redis-backed public limiter (Office API item 6; the contact-retention job is done), assignee endpoint for correspondence, appointments and
 projects (office web item 3), coordinates and a map (office web item 4), per-milestone verify flag
 (office web item 7).
+
+## Office review fixes (contract changes, applied)
+
+Applied directly to `docs/API_CONTRACT.md` §9–13 in the review-fix pass (see `docs/STATUS.md`):
+
+1. New permission `office.cases.confidential` (high risk; Office administrator). Restricted cases
+   answer 404 without it.
+2. New endpoint `POST /office/cases/:id/redact` (`office.cases.close`, re-auth) and the retention
+   job; `CaseDetail.redactedAt`; `CaseAction` `redact`; audit action `office.case.redacted`.
+3. `CLOSED` is reachable from ASSIGNED, IN_PROGRESS, REFERRED and REOPENED for closure reasons other
+   than `RESOLVED` (`caseClosureAllowed`).
+4. Projects: `approvalAuthority` required from APPROVED on; `completionEvidenceIds` stored; editing a
+   published field withdraws publication; the public evidence file endpoint returns a cleaned photo
+   (200) or, for a PDF with a clean scan only, a 302 to a download.
+5. Portal privacy notice `office-portal-2026-11-v2`; portal HEIC photos are refused.
+
